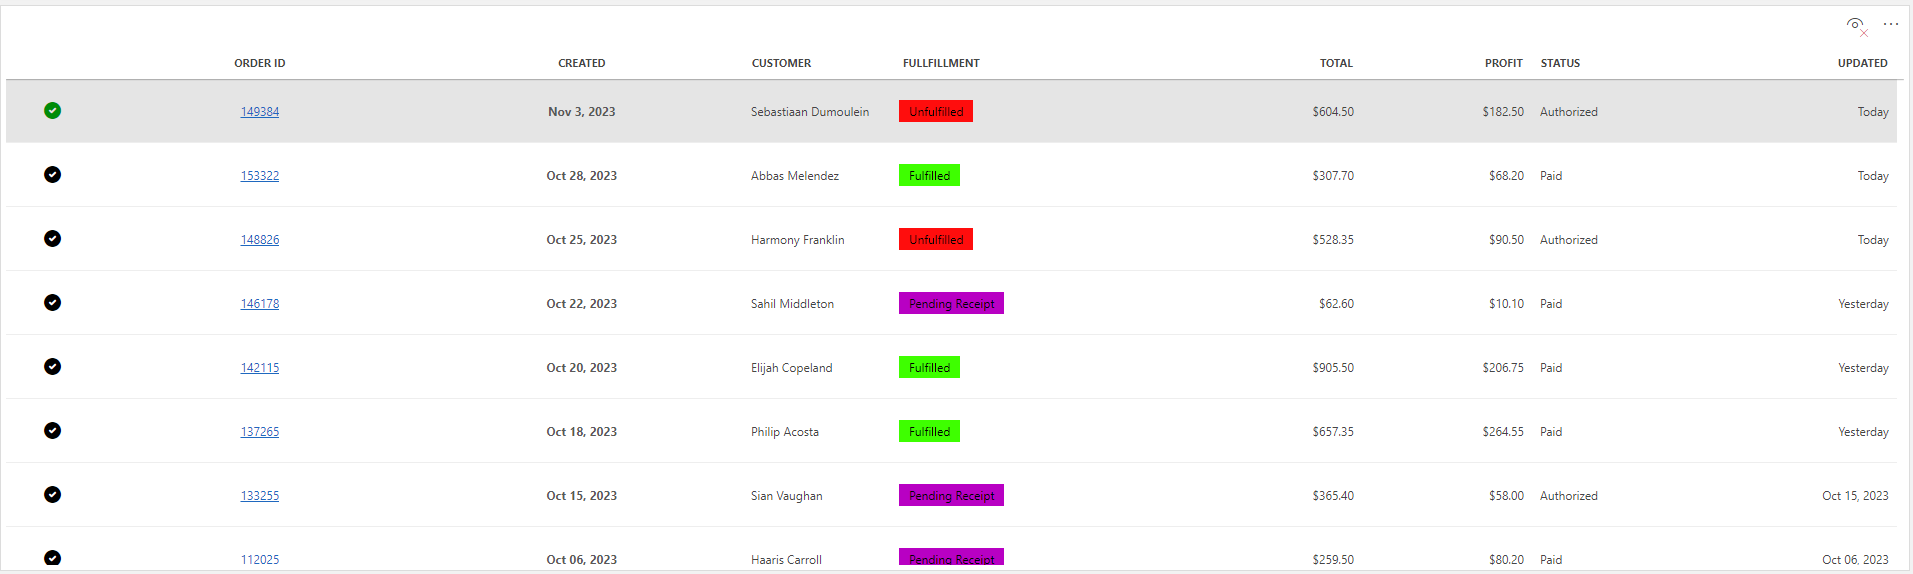
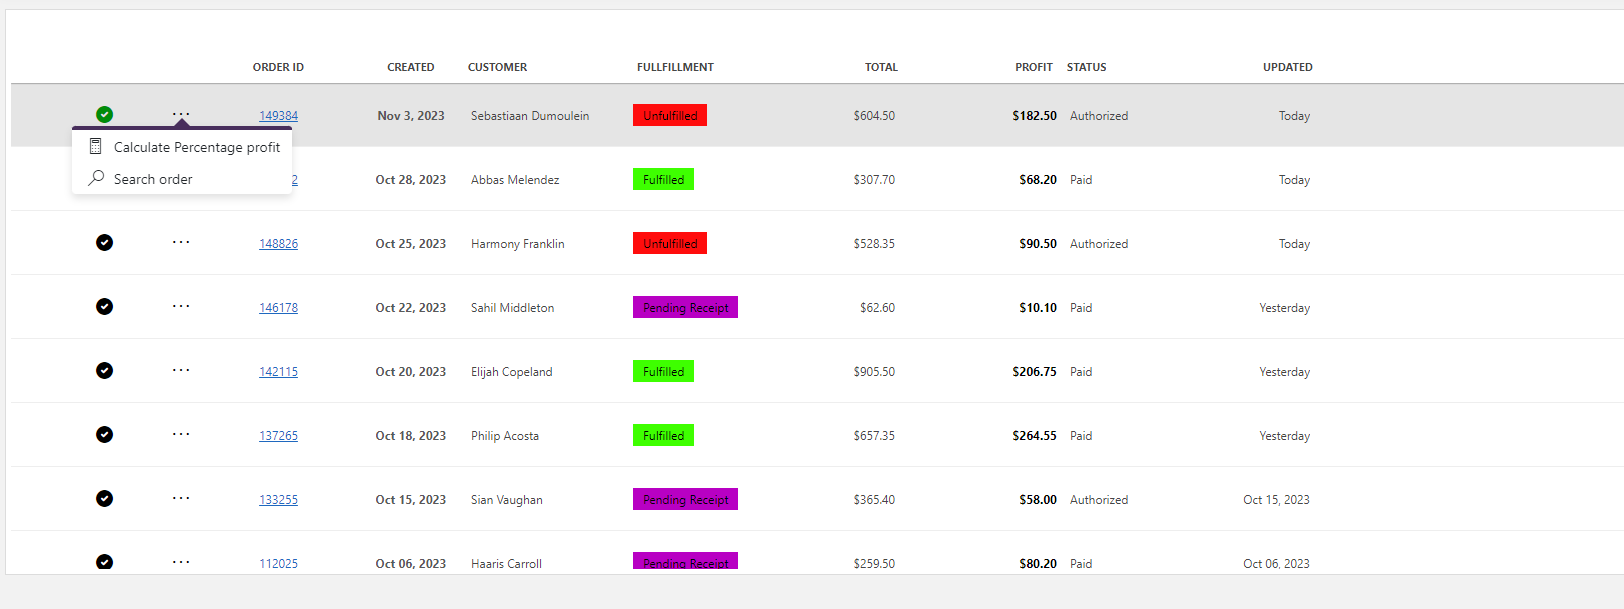
Adding Step to add Context menu

diff --git a/user-guide/Advanced_Modules/Dashboards_and_Low_Code_Apps/Low_Code_Apps/Tutorials/Tutorial_Apps_Style_A_Table.md b/user-guide/Advanced_Modules/Dashboards_and_Low_Code_Apps/Low_Code_Apps/Tutorials/Tutorial_Apps_Style_A_Table.md
@@ -15,6 +15,7 @@ The content and screenshots for this tutorial have been created in DataMiner 10.
 - [Step 3: Style the 'created' column](#step-3-style-the-created-column)
 - [Step 4: Style the Fullfilment column with some conditional coloring](#step-4-style-the-fullfilment-column-with-some-conditional-coloring)
 - [Step 5: Adding a Table column to show which row is currently selected](#step-5-adding-a-table-column-to-show-which-row-is-currently-selected)
+- [Step 6: Adding a context menu](#step-6-adding-a-context-menu)
 
 ## Step 1: Configure the query and add a table component to the dashboard  
 
@@ -415,7 +416,7 @@ Format like this `{0}` and just put a space in the 'New column name' field.
 
 - Let's now style this column! We'll start by adding this column to the column appearance section of the table component. For this one we'll start from the icon preset (i). Open the template editor.
 
-- We'll first change the height of the table rows. We can do this by changing the height of the template. To do this, make sure no layer is selected by clicking next to the template in the center and then change the height in the right sidebar.
+- First change the height of the table rows. This can be done  by changing the height of the template. To do this, make sure no layer is selected by clicking next to the template in the center and then change the height in the right sidebar.
 
     ![Change template height](~/user-guide/images/ChangeTemplateHeight.png)
 
@@ -423,10 +424,32 @@ Format like this `{0}` and just put a space in the 'New column name' field.
 
     ![Change icon](~/user-guide/images/ChangeIcon.png)
 
-- We can now add a conditional override to make the checkmark green when the row is selected. To do this, in the right sidebar, under the 'Conditional cases' section, click on the 'Add case' button. In the conditions select 'State - Is Selected', check 'Yes', show the icon and change the color to green. Save the template.
+- We can now add a conditional override to make the checkmark green when the row is selected. To do this, in the right sidebar, under the 'Conditional cases' section, click on the 'Add case' button. In the conditions select 'State - Is Selected', check 'Yes', show the icon and change the color to green.
 
     ![Add conditional override](~/user-guide/images/AddConditionalColorOverride.png)
 
-- Publish the app and see the result. Select a row by clicking on it, the checkmark will now be green for the selected row.
+## Step 6: Adding a context menu
 
-    ![Result](~/user-guide/images/TableResult.png)
+Let's add a context menu to this table. First add another icon to the template from the previous step. We'll use the 'More' icon. Rescale it so it fits the template nicely.
+
+![Add context menu icon](~/user-guide/images/AddContextMenuIcon.png)
+
+- Opening a context menu is an action we can add on the icon. To do this, in the right sidebar, under the properties dropdown click 'Configure actions'. On the popup that now appears, we can configure actions that happen when clicking the icon. To do this, click on the 'No action' dropdown and select 'Show context menu'. The menu to add a context menu now appears. In this menu we can configure items to put in the context menu. On each item all actions available in 'Low Code Apps' can be executed when clicking (Launch a script, navigate to a URL, Open a page, ...).
+
+    ![ContextMenu menu](~/user-guide/images/ContextMenuMenu.png)
+
+- Let's add a 'Calculate percentage profit' button to the context menu where we divide the 'profit' column with the 'total' column, We'll just use google and search the division to show the result. On the left side on the menu we can first add an icon to the item. We'll use a calculator icon for this tutorial. After that we can add a name to the item. Let's pick 'Calculate percentage profit'
+
+    ![Configure Name and Icon](~/user-guide/images/ConfigureIconAndName.gif)
+
+- We now need to configure an action. Click the button next to the name (Configure actions). This opens the actions menu we already know. Here select the action to 'Navigate to URL' and enter the following URL: `https://google.com/search?q={Profit}%2F{Total}`. This will open google and search the division of the profit and total column. We can use the intellisense provided by low code apps to grab the profit and total. To do this, make sure a column is selected, type '{' and start using the intellisense to select the correct column (To confirm a intellisense selection, press 'TAB' and use the arrow keys to navigate).
+
+    ![Configure action](~/user-guide/images/ConfigureGoogleAction.gif)
+
+- Adding another item in the context menu is done the same way. Click 'Add menu item'. Let's use a 'Search' icon and just google the orderID again, Name it 'Search order'. We can now configure an action the same way we did before. Using  the 'Navigate to URL' action and enter the following URL: `https://google.com/search?q={Order ID}` (Use intellisense to configure the Order ID column).
+
+    ![Configure action](~/user-guide/images/ConfigureGoogleAction2.gif)
+
+Publish the app and see the result. Select a row by clicking on it, the checkmark will now be green for the selected row. Click the 3 dots to open the context menu and click on 'Calculate percentage profit'. A new tab will open with the google search results for the division of the profit and total column. Same for the 'Search order' option.
+
+![Result](~/user-guide/images/TableResult.png)
